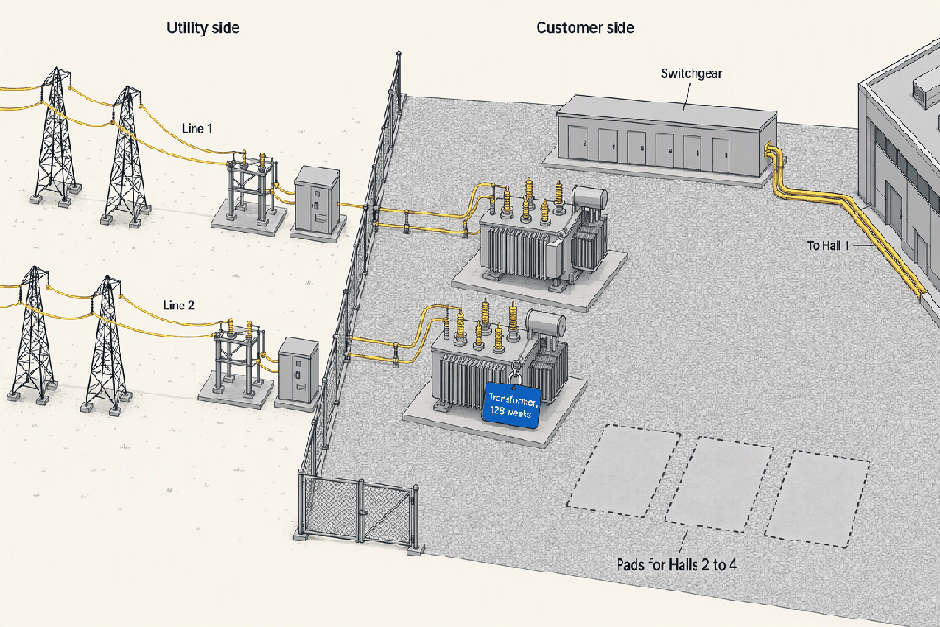
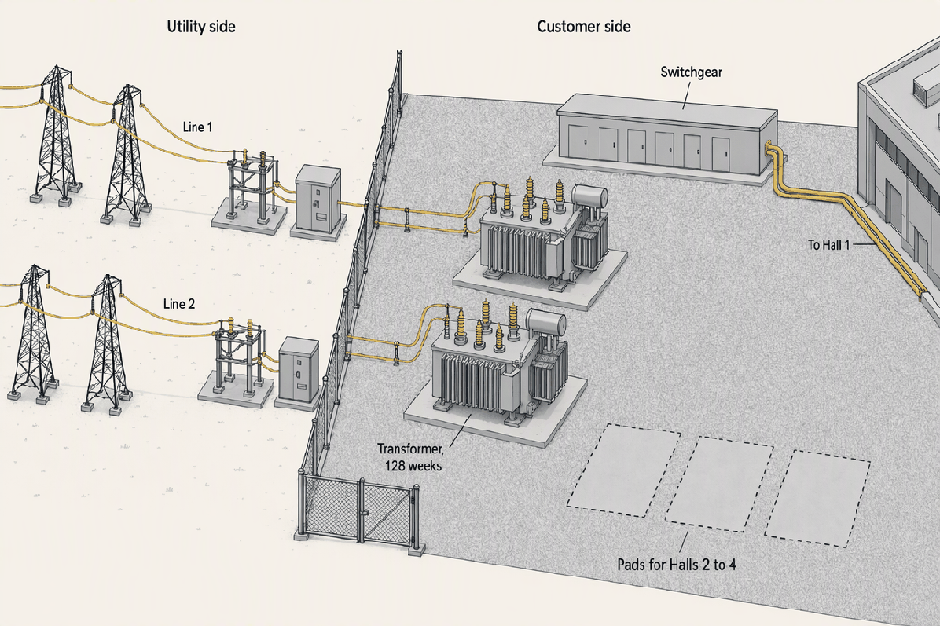
datacenter course: publish site 2026-09-25

diff --git a/learn-datacenter-epc/index.html b/learn-datacenter-epc/index.html
@@ -81,7 +81,7 @@ systems (NVIDIA GB200 NVL72, 120 to 132 kW) sit.</li>
   and land, the systems go in, and someone proves it works. Twelve topics, each with a
   readable chapter and an appendix of sources.</p>
   <h2 class="map-h">The course map</h2>
-  <div class="sld"><svg class="sld-h" viewBox="0 0 1000 244" role="img" aria-label="The course drawn as a single-line diagram: one lifecycle bus in four sections, twelve topics tapped off it"><path class="bus" d="M30 84 H163"/><rect class="breaker" x="165" y="78" width="10" height="12"/><text class="ph" x="30" y="62">Owner</text><line class="tap" x1="30" y1="70" x2="30" y2="80" opacity=".6"/><a href="#t-foundations" data-open="t-foundations" data-topic-page="L3-foundations" aria-label="Topic 1: Foundations, Delivery Models &amp; Project Economics"><line class="tap" x1="63" y1="84" x2="63" y2="118"/><circle class="node drafted written" cx="63" cy="128" r="10"/><text x="63" y="132" text-anchor="middle">1</text><text x="63" y="152" text-anchor="middle">Foundations</text></a><a href="#t-requirements" data-open="t-requirements" data-topic-page="L3-requirements" aria-label="Topic 2: Design Requirements, Capacity &amp; Load Planning"><line class="tap" x1="130" y1="84" x2="130" y2="158"/><circle class="node drafted written" cx="130" cy="168" r="10"/><text x="130" y="172" text-anchor="middle">2</text><text x="130" y="192" text-anchor="middle">Requirements</text></a><path class="bus" d="M177 84 H311"/><rect class="breaker" x="313" y="78" width="10" height="12"/><text class="ph" x="177" y="62">Project</text><line class="tap" x1="177" y1="70" x2="177" y2="80" opacity=".6"/><a href="#t-site" data-open="t-site" data-topic-page="L3-site" aria-label="Topic 3: Site Selection, Grid Interconnection, Water &amp; Procurement"><line class="tap" x1="211" y1="84" x2="211" y2="118"/><circle class="node draft parked written" cx="211" cy="128" r="10"/><text x="211" y="132" text-anchor="middle">3</text><text x="211" y="152" text-anchor="middle">Site &amp; grid</text></a><a href="#t-building" data-open="t-building" data-topic-page="L3-building" aria-label="Topic 4: Building &amp; Physical Infrastructure"><line class="tap" x1="278" y1="84" x2="278" y2="158"/><circle class="node brief ready" cx="278" cy="168" r="10"/><text x="278" y="172" text-anchor="middle">4</text><text x="278" y="192" text-anchor="middle">Building</text></a><path class="bus" d="M325 84 H725"/><rect class="breaker" x="727" y="78" width="10" height="12"/><text class="ph" x="325" y="62">Systems</text><line class="tap" x1="325" y1="70" x2="325" y2="80" opacity=".6"/><a href="#t-power-1" data-open="t-power-1" data-topic-page="L3-power-1" aria-label="Topic 5: Power Systems I — Utility to UPS"><line class="tap" x1="358" y1="84" x2="358" y2="118"/><circle class="node brief ready" cx="358" cy="128" r="10"/><text x="358" y="132" text-anchor="middle">5</text><text x="358" y="152" text-anchor="middle">Power I</text></a><a href="#t-power-2" data-open="t-power-2" data-topic-page="L3-power-2" aria-label="Topic 6: Power Systems II — Distribution &amp; Redundancy"><line class="tap" x1="425" y1="84" x2="425" y2="158"/><circle class="node brief ready" cx="425" cy="168" r="10"/><text x="425" y="172" text-anchor="middle">6</text><text x="425" y="192" text-anchor="middle">Power II</text></a><a href="#t-cooling" data-open="t-cooling" data-topic-page="L3-cooling" aria-label="Topic 7: Cooling &amp; Thermal Management"><line class="tap" x1="492" y1="84" x2="492" y2="118"/><circle class="node pending" cx="492" cy="128" r="10"/><text x="492" y="132" text-anchor="middle">7</text><text x="492" y="152" text-anchor="middle">Cooling</text></a><a href="#t-compute" data-open="t-compute" data-topic-page="L3-compute" aria-label="Topic 8: AI/HPC Infrastructure + Compute &amp; Storage"><line class="tap" x1="558" y1="84" x2="558" y2="158"/><circle class="node pending" cx="558" cy="168" r="10"/><text x="558" y="172" text-anchor="middle">8</text><text x="558" y="192" text-anchor="middle">AI &amp; compute</text></a><a href="#t-network" data-open="t-network" data-topic-page="L3-network" aria-label="Topic 9: Network Architecture &amp; Structured Cabling"><line class="tap" x1="625" y1="84" x2="625" y2="118"/><circle class="node pending" cx="625" cy="128" r="10"/><text x="625" y="132" text-anchor="middle">9</text><text x="625" y="152" text-anchor="middle">Network</text></a><a href="#t-security-monitoring" data-open="t-security-monitoring" data-topic-page="L3-security-monitoring" aria-label="Topic 10: Physical Security, Fire Protection, Monitoring &amp; Efficiency"><line class="tap" x1="692" y1="84" x2="692" y2="158"/><circle class="node pending" cx="692" cy="168" r="10"/><text x="692" y="172" text-anchor="middle">10</text><text x="692" y="192" text-anchor="middle">Security</text></a><path class="bus" d="M739 84 H833"/><rect class="breaker" x="835" y="78" width="10" height="12"/><text class="ph" x="739" y="62">Handover</text><line class="tap" x1="739" y1="70" x2="739" y2="80" opacity=".6"/><a href="#t-commissioning" data-open="t-commissioning" data-topic-page="L3-commissioning" aria-label="Topic 11: Commissioning, Operations &amp; Decommissioning"><line class="tap" x1="786" y1="84" x2="786" y2="118"/><circle class="node pending" cx="786" cy="128" r="10"/><text x="786" y="132" text-anchor="middle">11</text><text x="786" y="152" text-anchor="middle">Commissioning</text></a><path class="bus" d="M847 84 H940" stroke-dasharray="6 5"/><text class="ph" x="847" y="62">Threads</text><line class="tap" x1="847" y1="70" x2="847" y2="80" opacity=".6"/><a href="#t-threads" data-open="t-threads" data-topic-page="L3-threads" aria-label="Topic 12: Cross-Topic Threads"><line class="tap" x1="893" y1="84" x2="893" y2="118"/><circle class="node pending" cx="893" cy="128" r="10"/><text x="893" y="132" text-anchor="middle">12</text><text x="893" y="152" text-anchor="middle">Threads</text></a><path class="bus" d="M940 84 h12"/><path class="arrow" d="M952 78 l10 6 -10 6z"/><path class="risk-thread" d="M30 214 H833"/><text class="risk" x="30" y="230">Delivery and risk: who owns each decision, from contract to handover</text></svg><svg class="sld-v" viewBox="0 0 360 690" role="img" aria-label="The course drawn as a riser diagram: one lifecycle bus, twelve topics tapped off it"><path class="bus" d="M34 18 V114"/><text class="ph" x="52" y="31">Owner</text><a href="#t-foundations" data-open="t-foundations" data-topic-page="L3-foundations" aria-label="Topic 1: Foundations, Delivery Models &amp; Project Economics"><line class="tap" x1="34" y1="48" x2="85" y2="48"/><circle class="node drafted written" cx="96" cy="48" r="11"/><text x="96" y="52" text-anchor="middle">1</text><text x="116" y="52">Foundations</text></a><a href="#t-requirements" data-open="t-requirements" data-topic-page="L3-requirements" aria-label="Topic 2: Design Requirements, Capacity &amp; Load Planning"><line class="tap" x1="34" y1="94" x2="85" y2="94"/><circle class="node drafted written" cx="96" cy="94" r="11"/><text x="96" y="98" text-anchor="middle">2</text><text x="116" y="98">Requirements</text></a><rect class="breaker" x="28" y="115" width="12" height="10"/><path class="bus" d="M34 130 V226"/><text class="ph" x="52" y="143">Project</text><a href="#t-site" data-open="t-site" data-topic-page="L3-site" aria-label="Topic 3: Site Selection, Grid Interconnection, Water &amp; Procurement"><line class="tap" x1="34" y1="160" x2="85" y2="160"/><circle class="node draft parked written" cx="96" cy="160" r="11"/><text x="96" y="164" text-anchor="middle">3</text><text x="116" y="164">Site &amp; grid</text></a><a href="#t-building" data-open="t-building" data-topic-page="L3-building" aria-label="Topic 4: Building &amp; Physical Infrastructure"><line class="tap" x1="34" y1="206" x2="85" y2="206"/><circle class="node brief ready" cx="96" cy="206" r="11"/><text x="96" y="210" text-anchor="middle">4</text><text x="116" y="210">Building</text></a><rect class="breaker" x="28" y="227" width="12" height="10"/><path class="bus" d="M34 242 V522"/><text class="ph" x="52" y="255">Systems</text><a href="#t-power-1" data-open="t-power-1" data-topic-page="L3-power-1" aria-label="Topic 5: Power Systems I — Utility to UPS"><line class="tap" x1="34" y1="272" x2="85" y2="272"/><circle class="node brief ready" cx="96" cy="272" r="11"/><text x="96" y="276" text-anchor="middle">5</text><text x="116" y="276">Power I</text></a><a href="#t-power-2" data-open="t-power-2" data-topic-page="L3-power-2" aria-label="Topic 6: Power Systems II — Distribution &amp; Redundancy"><line class="tap" x1="34" y1="318" x2="85" y2="318"/><circle class="node brief ready" cx="96" cy="318" r="11"/><text x="96" y="322" text-anchor="middle">6</text><text x="116" y="322">Power II</text></a><a href="#t-cooling" data-open="t-cooling" data-topic-page="L3-cooling" aria-label="Topic 7: Cooling &amp; Thermal Management"><line class="tap" x1="34" y1="364" x2="85" y2="364"/><circle class="node pending" cx="96" cy="364" r="11"/><text x="96" y="368" text-anchor="middle">7</text><text x="116" y="368">Cooling</text></a><a href="#t-compute" data-open="t-compute" data-topic-page="L3-compute" aria-label="Topic 8: AI/HPC Infrastructure + Compute &amp; Storage"><line class="tap" x1="34" y1="410" x2="85" y2="410"/><circle class="node pending" cx="96" cy="410" r="11"/><text x="96" y="414" text-anchor="middle">8</text><text x="116" y="414">AI &amp; compute</text></a><a href="#t-network" data-open="t-network" data-topic-page="L3-network" aria-label="Topic 9: Network Architecture &amp; Structured Cabling"><line class="tap" x1="34" y1="456" x2="85" y2="456"/><circle class="node pending" cx="96" cy="456" r="11"/><text x="96" y="460" text-anchor="middle">9</text><text x="116" y="460">Network</text></a><a href="#t-security-monitoring" data-open="t-security-monitoring" data-topic-page="L3-security-monitoring" aria-label="Topic 10: Physical Security, Fire Protection, Monitoring &amp; Efficiency"><line class="tap" x1="34" y1="502" x2="85" y2="502"/><circle class="node pending" cx="96" cy="502" r="11"/><text x="96" y="506" text-anchor="middle">10</text><text x="116" y="506">Security</text></a><rect class="breaker" x="28" y="523" width="12" height="10"/><path class="bus" d="M34 538 V588"/><text class="ph" x="52" y="551">Handover</text><a href="#t-commissioning" data-open="t-commissioning" data-topic-page="L3-commissioning" aria-label="Topic 11: Commissioning, Operations &amp; Decommissioning"><line class="tap" x1="34" y1="568" x2="85" y2="568"/><circle class="node pending" cx="96" cy="568" r="11"/><text x="96" y="572" text-anchor="middle">11</text><text x="116" y="572">Commissioning</text></a><rect class="breaker" x="28" y="589" width="12" height="10"/><path class="bus" d="M34 604 V654" stroke-dasharray="6 5"/><text class="ph" x="52" y="617">Threads</text><a href="#t-threads" data-open="t-threads" data-topic-page="L3-threads" aria-label="Topic 12: Cross-Topic Threads"><line class="tap" x1="34" y1="634" x2="85" y2="634"/><circle class="node pending" cx="96" cy="634" r="11"/><text x="96" y="638" text-anchor="middle">12</text><text x="116" y="638">Threads</text></a><path class="bus" d="M34 668 v8"/><path class="arrow" d="M28 676 h12 l-6 10z"/></svg>
+  <div class="sld"><svg class="sld-h" viewBox="0 0 1000 244" role="img" aria-label="The course drawn as a single-line diagram: one lifecycle bus in four sections, twelve topics tapped off it"><path class="bus" d="M30 84 H163"/><rect class="breaker" x="165" y="78" width="10" height="12"/><text class="ph" x="30" y="62">Owner</text><line class="tap" x1="30" y1="70" x2="30" y2="80" opacity=".6"/><a href="#t-foundations" data-open="t-foundations" data-topic-page="L3-foundations" aria-label="Topic 1: Foundations, Delivery Models &amp; Project Economics"><line class="tap" x1="63" y1="84" x2="63" y2="118"/><circle class="node drafted written" cx="63" cy="128" r="10"/><text x="63" y="132" text-anchor="middle">1</text><text x="63" y="152" text-anchor="middle">Foundations</text></a><a href="#t-requirements" data-open="t-requirements" data-topic-page="L3-requirements" aria-label="Topic 2: Design Requirements, Capacity &amp; Load Planning"><line class="tap" x1="130" y1="84" x2="130" y2="158"/><circle class="node drafted written" cx="130" cy="168" r="10"/><text x="130" y="172" text-anchor="middle">2</text><text x="130" y="192" text-anchor="middle">Requirements</text></a><path class="bus" d="M177 84 H311"/><rect class="breaker" x="313" y="78" width="10" height="12"/><text class="ph" x="177" y="62">Project</text><line class="tap" x1="177" y1="70" x2="177" y2="80" opacity=".6"/><a href="#t-site" data-open="t-site" data-topic-page="L3-site" aria-label="Topic 3: Site Selection, Grid Interconnection, Water &amp; Procurement"><line class="tap" x1="211" y1="84" x2="211" y2="118"/><circle class="node drafted written" cx="211" cy="128" r="10"/><text x="211" y="132" text-anchor="middle">3</text><text x="211" y="152" text-anchor="middle">Site &amp; grid</text></a><a href="#t-building" data-open="t-building" data-topic-page="L3-building" aria-label="Topic 4: Building &amp; Physical Infrastructure"><line class="tap" x1="278" y1="84" x2="278" y2="158"/><circle class="node brief ready" cx="278" cy="168" r="10"/><text x="278" y="172" text-anchor="middle">4</text><text x="278" y="192" text-anchor="middle">Building</text></a><path class="bus" d="M325 84 H725"/><rect class="breaker" x="727" y="78" width="10" height="12"/><text class="ph" x="325" y="62">Systems</text><line class="tap" x1="325" y1="70" x2="325" y2="80" opacity=".6"/><a href="#t-power-1" data-open="t-power-1" data-topic-page="L3-power-1" aria-label="Topic 5: Power Systems I — Utility to UPS"><line class="tap" x1="358" y1="84" x2="358" y2="118"/><circle class="node brief ready" cx="358" cy="128" r="10"/><text x="358" y="132" text-anchor="middle">5</text><text x="358" y="152" text-anchor="middle">Power I</text></a><a href="#t-power-2" data-open="t-power-2" data-topic-page="L3-power-2" aria-label="Topic 6: Power Systems II — Distribution &amp; Redundancy"><line class="tap" x1="425" y1="84" x2="425" y2="158"/><circle class="node brief ready" cx="425" cy="168" r="10"/><text x="425" y="172" text-anchor="middle">6</text><text x="425" y="192" text-anchor="middle">Power II</text></a><a href="#t-cooling" data-open="t-cooling" data-topic-page="L3-cooling" aria-label="Topic 7: Cooling &amp; Thermal Management"><line class="tap" x1="492" y1="84" x2="492" y2="118"/><circle class="node pending" cx="492" cy="128" r="10"/><text x="492" y="132" text-anchor="middle">7</text><text x="492" y="152" text-anchor="middle">Cooling</text></a><a href="#t-compute" data-open="t-compute" data-topic-page="L3-compute" aria-label="Topic 8: AI/HPC Infrastructure + Compute &amp; Storage"><line class="tap" x1="558" y1="84" x2="558" y2="158"/><circle class="node pending" cx="558" cy="168" r="10"/><text x="558" y="172" text-anchor="middle">8</text><text x="558" y="192" text-anchor="middle">AI &amp; compute</text></a><a href="#t-network" data-open="t-network" data-topic-page="L3-network" aria-label="Topic 9: Network Architecture &amp; Structured Cabling"><line class="tap" x1="625" y1="84" x2="625" y2="118"/><circle class="node pending" cx="625" cy="128" r="10"/><text x="625" y="132" text-anchor="middle">9</text><text x="625" y="152" text-anchor="middle">Network</text></a><a href="#t-security-monitoring" data-open="t-security-monitoring" data-topic-page="L3-security-monitoring" aria-label="Topic 10: Physical Security, Fire Protection, Monitoring &amp; Efficiency"><line class="tap" x1="692" y1="84" x2="692" y2="158"/><circle class="node pending" cx="692" cy="168" r="10"/><text x="692" y="172" text-anchor="middle">10</text><text x="692" y="192" text-anchor="middle">Security</text></a><path class="bus" d="M739 84 H833"/><rect class="breaker" x="835" y="78" width="10" height="12"/><text class="ph" x="739" y="62">Handover</text><line class="tap" x1="739" y1="70" x2="739" y2="80" opacity=".6"/><a href="#t-commissioning" data-open="t-commissioning" data-topic-page="L3-commissioning" aria-label="Topic 11: Commissioning, Operations &amp; Decommissioning"><line class="tap" x1="786" y1="84" x2="786" y2="118"/><circle class="node pending" cx="786" cy="128" r="10"/><text x="786" y="132" text-anchor="middle">11</text><text x="786" y="152" text-anchor="middle">Commissioning</text></a><path class="bus" d="M847 84 H940" stroke-dasharray="6 5"/><text class="ph" x="847" y="62">Threads</text><line class="tap" x1="847" y1="70" x2="847" y2="80" opacity=".6"/><a href="#t-threads" data-open="t-threads" data-topic-page="L3-threads" aria-label="Topic 12: Cross-Topic Threads"><line class="tap" x1="893" y1="84" x2="893" y2="118"/><circle class="node pending" cx="893" cy="128" r="10"/><text x="893" y="132" text-anchor="middle">12</text><text x="893" y="152" text-anchor="middle">Threads</text></a><path class="bus" d="M940 84 h12"/><path class="arrow" d="M952 78 l10 6 -10 6z"/><path class="risk-thread" d="M30 214 H833"/><text class="risk" x="30" y="230">Delivery and risk: who owns each decision, from contract to handover</text></svg><svg class="sld-v" viewBox="0 0 360 690" role="img" aria-label="The course drawn as a riser diagram: one lifecycle bus, twelve topics tapped off it"><path class="bus" d="M34 18 V114"/><text class="ph" x="52" y="31">Owner</text><a href="#t-foundations" data-open="t-foundations" data-topic-page="L3-foundations" aria-label="Topic 1: Foundations, Delivery Models &amp; Project Economics"><line class="tap" x1="34" y1="48" x2="85" y2="48"/><circle class="node drafted written" cx="96" cy="48" r="11"/><text x="96" y="52" text-anchor="middle">1</text><text x="116" y="52">Foundations</text></a><a href="#t-requirements" data-open="t-requirements" data-topic-page="L3-requirements" aria-label="Topic 2: Design Requirements, Capacity &amp; Load Planning"><line class="tap" x1="34" y1="94" x2="85" y2="94"/><circle class="node drafted written" cx="96" cy="94" r="11"/><text x="96" y="98" text-anchor="middle">2</text><text x="116" y="98">Requirements</text></a><rect class="breaker" x="28" y="115" width="12" height="10"/><path class="bus" d="M34 130 V226"/><text class="ph" x="52" y="143">Project</text><a href="#t-site" data-open="t-site" data-topic-page="L3-site" aria-label="Topic 3: Site Selection, Grid Interconnection, Water &amp; Procurement"><line class="tap" x1="34" y1="160" x2="85" y2="160"/><circle class="node drafted written" cx="96" cy="160" r="11"/><text x="96" y="164" text-anchor="middle">3</text><text x="116" y="164">Site &amp; grid</text></a><a href="#t-building" data-open="t-building" data-topic-page="L3-building" aria-label="Topic 4: Building &amp; Physical Infrastructure"><line class="tap" x1="34" y1="206" x2="85" y2="206"/><circle class="node brief ready" cx="96" cy="206" r="11"/><text x="96" y="210" text-anchor="middle">4</text><text x="116" y="210">Building</text></a><rect class="breaker" x="28" y="227" width="12" height="10"/><path class="bus" d="M34 242 V522"/><text class="ph" x="52" y="255">Systems</text><a href="#t-power-1" data-open="t-power-1" data-topic-page="L3-power-1" aria-label="Topic 5: Power Systems I — Utility to UPS"><line class="tap" x1="34" y1="272" x2="85" y2="272"/><circle class="node brief ready" cx="96" cy="272" r="11"/><text x="96" y="276" text-anchor="middle">5</text><text x="116" y="276">Power I</text></a><a href="#t-power-2" data-open="t-power-2" data-topic-page="L3-power-2" aria-label="Topic 6: Power Systems II — Distribution &amp; Redundancy"><line class="tap" x1="34" y1="318" x2="85" y2="318"/><circle class="node brief ready" cx="96" cy="318" r="11"/><text x="96" y="322" text-anchor="middle">6</text><text x="116" y="322">Power II</text></a><a href="#t-cooling" data-open="t-cooling" data-topic-page="L3-cooling" aria-label="Topic 7: Cooling &amp; Thermal Management"><line class="tap" x1="34" y1="364" x2="85" y2="364"/><circle class="node pending" cx="96" cy="364" r="11"/><text x="96" y="368" text-anchor="middle">7</text><text x="116" y="368">Cooling</text></a><a href="#t-compute" data-open="t-compute" data-topic-page="L3-compute" aria-label="Topic 8: AI/HPC Infrastructure + Compute &amp; Storage"><line class="tap" x1="34" y1="410" x2="85" y2="410"/><circle class="node pending" cx="96" cy="410" r="11"/><text x="96" y="414" text-anchor="middle">8</text><text x="116" y="414">AI &amp; compute</text></a><a href="#t-network" data-open="t-network" data-topic-page="L3-network" aria-label="Topic 9: Network Architecture &amp; Structured Cabling"><line class="tap" x1="34" y1="456" x2="85" y2="456"/><circle class="node pending" cx="96" cy="456" r="11"/><text x="96" y="460" text-anchor="middle">9</text><text x="116" y="460">Network</text></a><a href="#t-security-monitoring" data-open="t-security-monitoring" data-topic-page="L3-security-monitoring" aria-label="Topic 10: Physical Security, Fire Protection, Monitoring &amp; Efficiency"><line class="tap" x1="34" y1="502" x2="85" y2="502"/><circle class="node pending" cx="96" cy="502" r="11"/><text x="96" y="506" text-anchor="middle">10</text><text x="116" y="506">Security</text></a><rect class="breaker" x="28" y="523" width="12" height="10"/><path class="bus" d="M34 538 V588"/><text class="ph" x="52" y="551">Handover</text><a href="#t-commissioning" data-open="t-commissioning" data-topic-page="L3-commissioning" aria-label="Topic 11: Commissioning, Operations &amp; Decommissioning"><line class="tap" x1="34" y1="568" x2="85" y2="568"/><circle class="node pending" cx="96" cy="568" r="11"/><text x="96" y="572" text-anchor="middle">11</text><text x="116" y="572">Commissioning</text></a><rect class="breaker" x="28" y="589" width="12" height="10"/><path class="bus" d="M34 604 V654" stroke-dasharray="6 5"/><text class="ph" x="52" y="617">Threads</text><a href="#t-threads" data-open="t-threads" data-topic-page="L3-threads" aria-label="Topic 12: Cross-Topic Threads"><line class="tap" x1="34" y1="634" x2="85" y2="634"/><circle class="node pending" cx="96" cy="634" r="11"/><text x="96" y="638" text-anchor="middle">12</text><text x="116" y="638">Threads</text></a><path class="bus" d="M34 668 v8"/><path class="arrow" d="M28 676 h12 l-6 10z"/></svg>
   <p class="aside">The lifecycle drawn as a single-line diagram: one bus, four sections, each chapter a
   load tapped off it. Yellow fill means the chapter is written; solid yellow means it is done.
   The dashed red line is the delivery thread: which party carries the risk at each step.
@@ -96,7 +96,7 @@ systems (NVIDIA GB200 NVL72, 120 to 132 kW) sit.</li>
 <details class="topic drafted" id="t-requirements" data-topic-page="L3-requirements"><summary><span class="n">2</span><span class="t">Design Requirements, Capacity &amp; Load Planning</span><span class="st">drafted</span></summary><div class="body"><p>Before anything is drawn, the owner states what they need and the designer states how they will meet it. The number that matters most is kilowatts per rack: it sets the power, the cooling, and the floor loading. Tiers, TIA-942 ratings, and BICSI classes are ways to say how much failure is tolerable.</p><p class="desc">The owner's side of the table. Owner's Project Requirements and Basis of Design; <strong>density-first capacity planning</strong> — deciding kW per rack, because that single number drives power, cooling, and structure downstream; availability frameworks (Uptime Tiers, TIA-942 ratings, BICSI classes) as one design criterion among several rather than the spine; codes; certifications and audits as facility concerns.</p><p class="links"><a href="L3-requirements.html">Read the chapter</a> <a href="APX-requirements.html">Appendix</a></p></div></details>
 </section>
 <section class="phase" id="ph-project"><h2>Project</h2><p class="why">Where it goes, and whether you can get the power, water and permits.</p>
-<details class="topic draft parked" id="t-site" data-topic-page="L3-site"><summary><span class="n">3</span><span class="t">Site Selection, Grid Interconnection, Water &amp; Procurement</span><span class="st">draft parked</span></summary><div class="body"><p>Land is easy; power is not. Choosing a site means finding grid capacity you can actually be granted — a process measured in years, not months — plus fiber, water you are permitted to use and discharge, tolerable hazard risk, and a community that will have you. Meanwhile the transformers must already be on order.</p><p class="desc">Where it goes and whether you can actually get what you need. Location, climate, and natural-hazard factors; <strong>grid interconnection as a multi-year process</strong>, not a wiring job; water sourcing, discharge permitting, and community moratoriums; taxes, incentives, and permitting risk; and <strong>long-lead equipment procurement</strong> — why transformers and switchgear get ordered before the design is finished.</p><p class="links"><a href="L3-site.html">Read the chapter</a> <a href="APX-site.html">Appendix</a></p></div></details>
+<details class="topic drafted" id="t-site" data-topic-page="L3-site"><summary><span class="n">3</span><span class="t">Site Selection, Grid Interconnection, Water &amp; Procurement</span><span class="st">drafted</span></summary><div class="body"><p>Land is easy; power is not. Choosing a site means finding grid capacity you can actually be granted — a process measured in years, not months — plus fiber, water you are permitted to use and discharge, tolerable hazard risk, and a community that will have you. Meanwhile the transformers must already be on order.</p><p class="desc">Where it goes and whether you can actually get what you need. Location, climate, and natural-hazard factors; <strong>grid interconnection as a multi-year process</strong>, not a wiring job; water sourcing, discharge permitting, and community moratoriums; taxes, incentives, and permitting risk; and <strong>long-lead equipment procurement</strong> — why transformers and switchgear get ordered before the design is finished.</p><p class="links"><a href="L3-site.html">Read the chapter</a> <a href="APX-site.html">Appendix</a></p></div></details>
 <details class="topic brief ready" id="t-building" data-topic-page="L3-building"><summary><span class="n">4</span><span class="t">Building &amp; Physical Infrastructure</span><span class="st">brief ready</span></summary><div class="body"><p>The shell holds the machines up and keeps the weather out. Floors carry racks that can exceed a tonne each. Space divides into white space for IT, gray space for the plant that serves it, and galleries for pipes and conduit. Docks, routes, hardening, and noise limits are all design constraints.</p><p class="desc">Shell and core; structural loading, now driven by racks weighing over a tonne; raised floor versus slab; room topology (white space, gray space, MEP galleries); loading docks and equipment logistics; seismic, flood, and wind hardening; roof and envelope; noise as a permitting constraint.</p><p class="links"><span class="off">Chapter not written yet</span> </p></div></details>
 </section>
 <section class="phase" id="ph-systems"><h2>Systems</h2><p class="why">The plant itself: power, cooling, compute, network, protection.</p>

diff --git a/learn-datacenter-epc/L3-site.html b/learn-datacenter-epc/L3-site.html
@@ -48,7 +48,7 @@
 <figure class="fig fig-compare" id="fig6"><div class="compare-wrap"><table class="compare"><thead><tr><th class="rh">Market</th><th>Applies from</th><th>Term</th><th>Minimum take</th><th>Collateral</th><th>Queue vs bankable</th></tr></thead><tbody><tr><th>Dominion, Virginia (GS-5)</th><td>≥ 25 MW</td><td>14 years</td><td>85% of T&amp;D, 60% of generation</td><td>$1.5M per MW</td><td>~70 GW queued; ~25 GW with dates</td></tr><tr><th>AEP Ohio</th><td>&gt; 25 MW</td><td>~12 years</td><td>85%</td><td>Unrated customers; exit fee ~3 years</td><td>30 → 13 GW once deposits were required</td></tr><tr><th>Georgia Power</th><td>≥ 100 MW</td><td>15 years</td><td>Minimum billing</td><td>Yes, plus termination costs</td><td>36.5 GW pipeline; ~2 GW contracted</td></tr><tr><th>ERCOT, Texas (SB 6)</th><td>≥ 75 MW</td><td>Standardised</td><td>Remote disconnect in emergencies</td><td>$50k/MW fee proposed; 80% kept on exit</td><td>~230 GW queued; 7.5 GW connected</td></tr><tr><th>SRP, Phoenix (E-67)</th><td>≥ 20 MW</td><td>Contract</td><td>80% of forecast demand</td><td>30% of network-upgrade share, letter of credit</td><td>7.2 → ~1 GW after deposits</td></tr></tbody></table></div><figcaption><span class="fno">Figure 6</span> Large-load rules by market, 2025–26; the last column sets the queue against what is real</figcaption></figure>
 <p>A queue is speculation until money is demanded: SRP's fell seven-fold when a 30% letter of credit was required, and the SRP cluster's transmission bill fell from $12.8B to $1.5B with it. The thresholds matter to us. At 56 MW the campus sits under ERCOT's 75 MW and Georgia's 100 MW gates but over Dominion's, AEP's and SRP's, so the size of the request is a tariff decision (<a class="apx" href="APX-site.html#s5">APX-site §5</a>).</p>
 <details class="more"><summary>Outside the US, and the federal overlay</summary><div class="more-body"><ul><li>Dublin lifted its de facto moratorium in December 2025 but requires new data centers to install on-site generation or storage covering full demand. Amsterdam's 2019–20 moratorium left a lasting drag. Singapore now awards capacity in tranches against PUE ≤ 1.3, 100% RECs and liquid cooling for 60% of IT load.</li><li>DOE directed FERC in October 2025 to accelerate large-load interconnection and allow joint load-plus-generation filings; FERC directed the RTOs to write region-specific rules in June 2026. Direction of travel: faster studies, firmer money.</li></ul></div></details>
-<figure class="fig fig-figure" id="fig7"><img alt="Slightly isometric view of the reference substation yard: two 138 kV lines arriving on lattice towers from the utility side of a fence, the utility&#x27;s tap and metering, then on the customer side two large power transformers on concrete pads with one tagged as the 128-week item, a switchgear building, a feeder running toward Hall 1, and empty pads reserved for Halls 2 to 4" src="./figures/site/substation-scope.png" width="940" height="627" loading="lazy"><figcaption><span class="fno">Figure 7</span> The customer substation as interconnection scope: the fence line is a contract line</figcaption></figure>
+<figure class="fig fig-figure" id="fig7"><img alt="Slightly isometric view of the reference substation yard: two 138 kV lines arriving on lattice towers from the utility side of a fence, the utility&#x27;s tap and metering, then on the customer side two large power transformers on concrete pads with one tagged as the 128-week item, a switchgear building, a feeder running toward Hall 1, and empty pads reserved for Halls 2 to 4" src="./figures/site/substation-scope.png" width="940" height="626" loading="lazy"><figcaption><span class="fno">Figure 7</span> The customer substation as interconnection scope: the fence line is a contract line</figcaption></figure>
 <p>The utility builds and owns to its side of the fence, funded by the developer's contribution in aid of construction. The developer owns everything inside, and therefore owns the longest lead time on the project. What is on the pads is Topic 5's subject; that they are on the developer's books is this chapter's.</p>
 <h2 id="s4"><a id="bridging-power"></a>Bridging power</h2>
 <figure class="fig fig-compare" id="fig8"><div class="compare-wrap"><table class="compare"><thead><tr><th class="rh">Option</th><th>Indicative cost</th><th>Permit</th><th>Lead time</th><th>Role</th><th>Supply</th></tr></thead><tbody><tr><th>Aeroderivative gas turbines</th><td>~$0.8–1.2M/MW; 50 MW ≈ $40–60M</td><td>Major air permit</td><td>18–30 months</td><td>Prime or bridge</td><td>GE Vernova, ~1 GW to one campus</td></tr><tr><th>Reciprocating gas engines</th><td>~$0.7–1.4M/MW</td><td>Minor source possible to ~200 MW</td><td>18–30 months</td><td>Bridge</td><td>Cummins QSK95 sold into 2H 2028; Caterpillar backlog $63B</td></tr><tr><th>Fuel cells</th><td>Not sourced here</td><td>Lower emissions</td><td>Not sourced here</td><td>Bridge or prime</td><td>Bloom</td></tr><tr><th>Batteries (BESS)</th><td>Per MWh</td><td>Fire code</td><td>Months</td><td>Covers the 30–120 s to engine start</td><td>Not an energy source</td></tr></tbody></table></div><figcaption><span class="fno">Figure 8</span> Behind-the-meter options when the grid date slips</figcaption></figure>

diff --git a/learn-datacenter-epc/sw.js b/learn-datacenter-epc/sw.js
@@ -1,7 +1,7 @@
 // sw.js — GENERATED by scripts/build-docs.py. Do not edit by hand.
 // Cache name embeds a hash of every precached file; any content change
 // produces a new name, so the old cache is dropped on activate.
-const CACHE = 'dc-course-d21aacb3001e';
+const CACHE = 'dc-course-f48c7050ba2d';
 const PRECACHE = [
   "./APX-foundations.html",
   "./APX-requirements.html",
